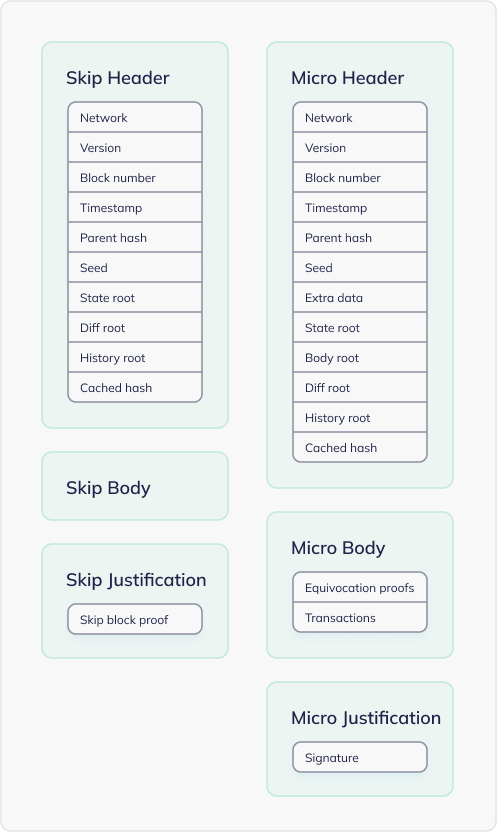
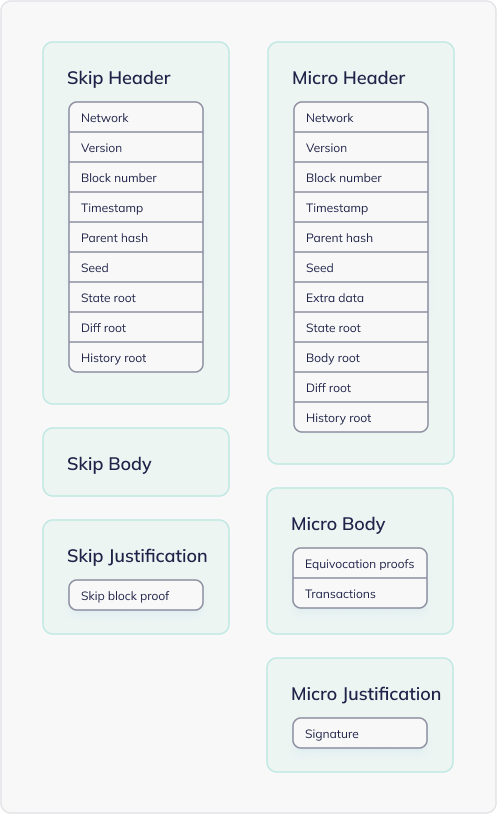
Update block format and diagrams

diff --git a/learn/protocol/block-format.md b/learn/protocol/block-format.md
@@ -19,12 +19,11 @@ Micro blocks are the blocks for including transactions on the Nimiq PoS blockcha
 | `timestamp` | `u64` | The block's Unix creation timestamp in milliseconds, indicating when the block was produced |
 | `parent_hash` | `Blake2bHash` | The hash of the preceding block's header (micro or macro). This ensures a direct link to its predecessor |
 | `seed` | `VrfSeed` | The BLS signature derived from the seed of the previous block, using the validator key of the block producer |
-| `extra_data` | `Vec<u8>` | Data freely choosable by the producing validator, the default client leaves it empty |
+| `extra_data` | `Vec<u8>` | Data that can be freely chosen by the producing validator, the default client leaves it empty |
 | `state_root` | `Blake2bHash` | The root of the Merkle tree representing the blockchain state, acting as a commitment to the current state |
-| `body_root` | `Blake2sHash` | The root of the Merkle tree representing the body of the block, serving as a commitment to its content |
+| `body_root` | `Blake2sHash` | The hash of the block's body, serving as a commitment to its content |
 | `diff_root` | `Blake2bHash` | The root of the trie diff tree proof, authenticating the state changes between blocks |
 | `history_root` | `Blake2bHash` | The root of a Merkle Mountain Range covering all transactions in the current epoch up until the current block|
-| `cached_hash` | `Option<Blake2bHash>` | The cached hash of the block header, stored temporarily for performance optimization and not transmitted over the network |
 
 ### Micro Body
 
@@ -59,26 +58,25 @@ Macro blocks need +2/3 of consensus from the validator list to be confirmed, ens
 | `network` | `NetworkId` | The network ID associated with the block, such as Mainnet or Testnet |
 | `version` | `u16` | The block's version number. Changing this implies a hard fork |
 | `block_number` | `u32` | The number of the block, representing its height in the blockchain |
-| `round` | `u32` | The specific tendermint round in which this block was proposed |
+| `round` | `u32` | The specific Tendermint round in which this block was proposed |
 | `timestamp` | `u64` | The Unix creation timestamp (in milliseconds) indicating when the block was produced |
 | `parent_hash` | `Blake2bHash` | The hash of the preceding block's header (can only be micro) |
 | `parent_election_hash` | `Blake2bHash` | The hash of the header from the previous election macro block |
 | `interlink` | `Option<Vec<Blake2bHash>>` | A vector of hashes linking to previous election blocks with epoch numbers ending in *n* zeros in binary representation. This allows nodes to verify past blocks efficiently without needing to traverse the entire chain |
 | `seed` | `VrfSeed` | The BLS signature derived from the seed of the previous block, using the validator key of the block proposer |
-| `extra_data` | `Vec<u8>` | Space reserved for arbitrary data (currently unused) |
+| `extra_data` | `Vec<u8>` | Data that can be freely chosen by the producing validator, the default client leaves it empty |
 | `state_root` | `Blake2bHash` | The Merkle root representing the blockchain state, acting as a commitment to the current state |
-| `body_root` | `Blake2sHash` | The Merkle root representing the body of the block, serving as a commitment to its content |
+| `body_root` | `Blake2sHash` | The hash of the block body, serving as a commitment to its content |
 | `diff_root` | `Blake2bHash` | The root of the trie diff tree proof, which authenticates the state transitions or changes between blocks |
 | `history_root` | `Blake2bHash` | The root of a Merkle Mountain Range covering all transactions that occurred in the current epoch up until this block |
 | `validators` | `Option<Validators>` | Information about the upcoming validator list. Present only in election macro blocks |
 | `next_batch_initial_punished_set` | `BitSet` | A bitset representing validator slots that are banned from producing blocks in the next batch due to misbehavior |
-| `cached_hash` | `Option<Blake2bHash>` | A cached hash of the block header, used to optimize performance. Not transmitted over the network |
 
 ### Macro Body
 
 | **Field** | **Data Type** | **Description** |
 | --- | --- | --- |
-| `transactions` | `Vec<RewardTransaction>` | Contains the reward transactions of this block, distributing block rewards and transaction fees of the current batch to validators |
+| `transactions` | `Vec<RewardTransaction>` | Contains the reward transactions of this block, distributing block rewards and transaction fees of the current batch to validators. Macro blocks do not include user-generated transactions. |
 
 ### Macro Justification
 
@@ -87,9 +85,18 @@ Macro blocks need +2/3 of consensus from the validator list to be confirmed, ens
 | `round` | `u32` | The specific tendermint round in which the block was accepted. This is used to verify that the signature corresponds to the correct round |
 | `sig` | `MultiSignature` | The aggregated BLS signature of the validators’ precommit votes for the block, confirming validator consensus |
 
-The figure below illustrates how a macro block and a micro block are linked. Each block, whether macro or micro, is directly connected to its predecessor through the **parent hash** and the **random seed**.
+## Relation Between Micro and Macro Blocks
+Micro and macro blocks are interconnected. This connection ensures blockchain continuity and finality. This section focuses on how these block types interact.
+
+**Block Connections**
+All blocks are sequentially linked by the parent hash, forming a continuous chain: and every checkpoint macro block points to its election macro block by the parent election hash. The following diagram illustrates the connection between micro and macro blocks. Each block is directly connected to its predecessor through the parent hash.
 
 <img class="object-contain max-h-[max(80vh,220px)]" src="/assets/images/protocol/macro-micro.png" alt="macro and micro block connection" />
+
+*Note: This diagram is a simplified representation. The actual blockchain includes a fixed number of blocks per batch and epoch, which this diagram does not reflect.*
+
+- **Parent Hash**: Links each block to its direct predecessor.
+- **Election Parent Hash**: Connects checkpoint macro blocks to their preceding election macro block (macro block 20 to macro block 10).
 
 ## Blockchain Format
 

diff --git a/learn/protocol/validators/skip-blocks.md b/learn/protocol/validators/skip-blocks.md
@@ -4,7 +4,7 @@ Skip blocks are a special type of [micro block](/learn/protocol/block-format.md#
 
 The primary purpose of skip blocks is to ensure blockchain continuity by serving a structural role rather than a transactional one. Unlike micro blocks, which process transactions, skip blocks are like placeholders that prevent interruptions when a validator fails to produce a block.
 
-Skip blocks are canonical and fully recognized as part of the main chain. Once a skip block is added, the chain resumes regular micro block production with one validator per block. There is no maximum limit on the number of skip blocks, as skip blocks adapt to the chain’s continuity.
+Skip blocks are canonical, meaning their structure is strictly determined by the protocol. For any given block, the skip block that follows is determined by the protocol rules. Once a skip block is added, the chain resumes regular micro block production with one validator per block. There is no maximum limit on the number of skip blocks, as skip blocks adapt to the chain’s continuity.
 
 ### Skip Block and Micro Block Differences
 
@@ -14,7 +14,7 @@ Skip blocks are a special type of micro block, but because they don’t hold tra
 | --- | --- | --- |
 | **Transactions** | None – skip blocks contain no transactions | Contains transactions that update the blockchain state |
 | **Body** | Empty – skip blocks have no transaction or equivocation proof data | Contains transaction data and possibly equivocation proofs |
-| **Body Root** | Empty – since the body is empty, the `body_root` field in the block header is also empty | Contains the Merkle root of the transactions |
+| **Body Root** | The `body_root` field in the block header is the hash of the empty body | The `body_root` is the hash of the body, which includes the transactions and equivocation proofs |
 | **Timestamp** | Derived from the previous block’s timestamp plus a fixed duration (4 seconds) | Generated based on the block’s production time by the assigned producer |
 | **Extra Data** | Must be empty to signify its status as a skip block | Can include additional data as required by the transactions or block producer |
 | **VRF Seed** | Inherits the VRF from the previous micro block without introducing new randomness | A new VRF seed is generated by the block producer introducing new randomness |
